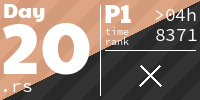
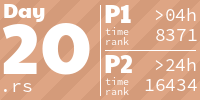
day20 - part 2

diff --git a/src/day20.rs b/src/day20.rs
@@ -1,7 +1,5 @@
 use std::{collections::HashMap, convert::identity};
 
-use itertools::Itertools;
-
 use crate::utils::*;
 
 //--------------------------------------------------------------------------------
@@ -28,18 +26,18 @@ impl Puzzle {
         }
     }
 
-    pub fn pp_savings(&self, savings_for_cheat: &HashMap<(V2, V2), usize>) {
-        let mut nb_cheats_for_saving = HashMap::new();
-        for (_cheats, saving) in savings_for_cheat {
-            let current = nb_cheats_for_saving.get(&saving).unwrap_or(&0);
-            nb_cheats_for_saving.insert(saving, current + 1);
-        }
-
-        for &saving in nb_cheats_for_saving.keys().sorted() {
-            let nb_cheats = nb_cheats_for_saving.get(&saving).unwrap();
-            println!("{} cheats saved {} picoseconds", nb_cheats, saving);
-        }
-    }
+    // pub fn pp_savings(&self, savings_for_cheat: &HashMap<(V2, V2), usize>) {
+    //     let mut nb_cheats_for_saving = HashMap::new();
+    //     for (_cheats, saving) in savings_for_cheat {
+    //         let current = nb_cheats_for_saving.get(&saving).unwrap_or(&0);
+    //         nb_cheats_for_saving.insert(saving, current + 1);
+    //     }
+    //
+    //     for &saving in nb_cheats_for_saving.keys().sorted() {
+    //         let nb_cheats = nb_cheats_for_saving.get(&saving).unwrap();
+    //         println!("{} cheats saved {} picoseconds", nb_cheats, saving);
+    //     }
+    // }
 
     pub fn solve_p1(&self, threshold: i32) -> usize {
         let mut track = self.racetrack.clone();
@@ -84,7 +82,7 @@ impl Puzzle {
                         continue;
                     }
                     let &cost_at_cheat2 = cost_at_pos.get(&cheat2).unwrap();
-                    let saving = (cost_at_cheat2 as i32) - (cost as i32) - 2;
+                    let saving = cost_at_cheat2 - (cost as i32) - 2;
                     if saving > 0 && saving >= threshold {
                         // we have a shortcut !!!
                         let saving = saving as usize;
@@ -101,7 +99,7 @@ impl Puzzle {
         shortcuts.len()
     }
 
-    pub fn solve_p2(&self, threshold: i32) -> usize {
+    pub fn solve_p2(&self, threshold: i32, cheat_length: i32) -> usize {
         let mut track = self.racetrack.clone();
         let mut pos = self.start;
         let mut cost = 0;
@@ -125,26 +123,38 @@ impl Puzzle {
             }
             pos = nx_pos.unwrap();
         }
-        cost_at_pos.insert(pos, cost);
+        cost_at_pos.insert(pos, cost + 1);
 
         let mut shortcuts = HashMap::new();
         let mut track = self.racetrack.clone();
         track.set(&self.end, '.');
         for (mut cost, &pos) in path.iter().enumerate() {
             cost += 1;
-            track.set(&pos, 'X');
-            for cheat1 in track.neighbors(&pos) {
-                if track.get(&cheat1) != Some('#') {
-                    // cheat1 needs to be on a wall
-                    continue;
-                }
-                for cheat2 in track.neighbors(&cheat1) {
+            // track.set(&pos, 'X');
+            let cheat1 = pos;
+            for x in (pos.x - cheat_length)..=(pos.x + cheat_length) {
+                // if x < 0 || x >= track.width {
+                //     continue;
+                // }
+                for y in (pos.y - cheat_length)..=(pos.y + cheat_length) {
+                    // if y < 0 || y >= track.height {
+                    //     continue;
+                    // }
+                    if !track.is_in(&V2::new(x, y)) {
+                        continue;
+                    }
+                    let dist = (pos.x - x).abs() + (pos.y - y).abs();
+                    if dist == 0 || dist > cheat_length {
+                        continue;
+                    }
+
+                    let cheat2 = V2::new(x, y);
                     if cheat2 == pos || track.get(&cheat2) != Some('.') {
                         // cheat2 needs to be back on the path
                         continue;
                     }
                     let &cost_at_cheat2 = cost_at_pos.get(&cheat2).unwrap();
-                    let saving = (cost_at_cheat2 as i32) - (cost as i32) - 2;
+                    let saving = cost_at_cheat2 - (cost as i32) - dist;
                     if saving > 0 && saving >= threshold {
                         // we have a shortcut !!!
                         let saving = saving as usize;
@@ -173,7 +183,7 @@ fn p1(input: &str, threshold: i32) -> usize {
 
 fn p2(input: &str, threshold: i32) -> usize {
     let puzzle = Puzzle::from_str(input);
-    puzzle.solve_p2(threshold)
+    puzzle.solve_p2(threshold, 20)
 }
 
 //--------------------------------------------------------------------------------
@@ -183,9 +193,9 @@ fn p2(input: &str, threshold: i32) -> usize {
 pub fn run() {
     pp_day("day20: Race Condition");
     time_it(|input| p1(input, 0), "p1", "data/20_sample.txt");
-    // time_it(|input| p1(input, 100), "p1", "data/20_input.txt");
-    // time_it(|input| p2(input, 50), "p2", "data/20_sample.txt");
-    // time_it(p2, "p2", "data/20_input.txt");
+    time_it(|input| p1(input, 100), "p1", "data/20_input.txt");
+    time_it(|input| p2(input, 50), "p2", "data/20_sample.txt");
+    time_it(|input| p2(input, 100), "p2", "data/20_input.txt");
 }
 
 #[cfg(test)]
@@ -197,6 +207,6 @@ mod tests {
         assert_eq!(run_it(|input| p1(input, 0), "data/20_sample.txt"), 44);
         assert_eq!(run_it(|input| p1(input, 100), "data/20_input.txt"), 1429);
         assert_eq!(run_it(|input| p2(input, 50), "data/20_sample.txt"), 285);
-        //         assert_eq!(run_it(p2, "data/20_input.txt"), 595975512785325);
+        assert_eq!(run_it(|input| p2(input, 50), "data/20_input.txt"), 988931);
     }
 }

diff --git a/README.md b/README.md
@@ -1,6 +1,6 @@
 <!-- AOC TILES BEGIN -->
 <h1 align="center">
-  2024 - 39 ⭐ - Rust
+  2024 - 40 ⭐ - Rust
 </h1>
 <a href="src/day01.rs">
   <img src=".aoc_tiles/tiles/2024/01.png" width="161px">
